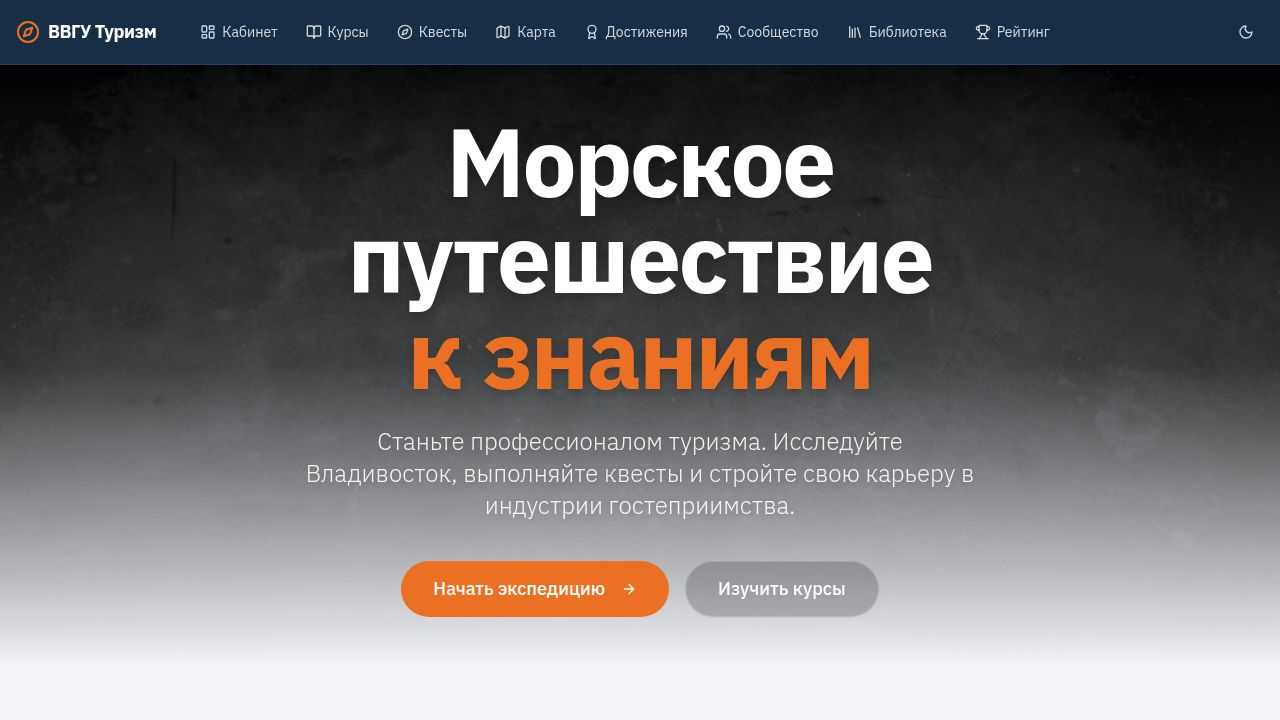
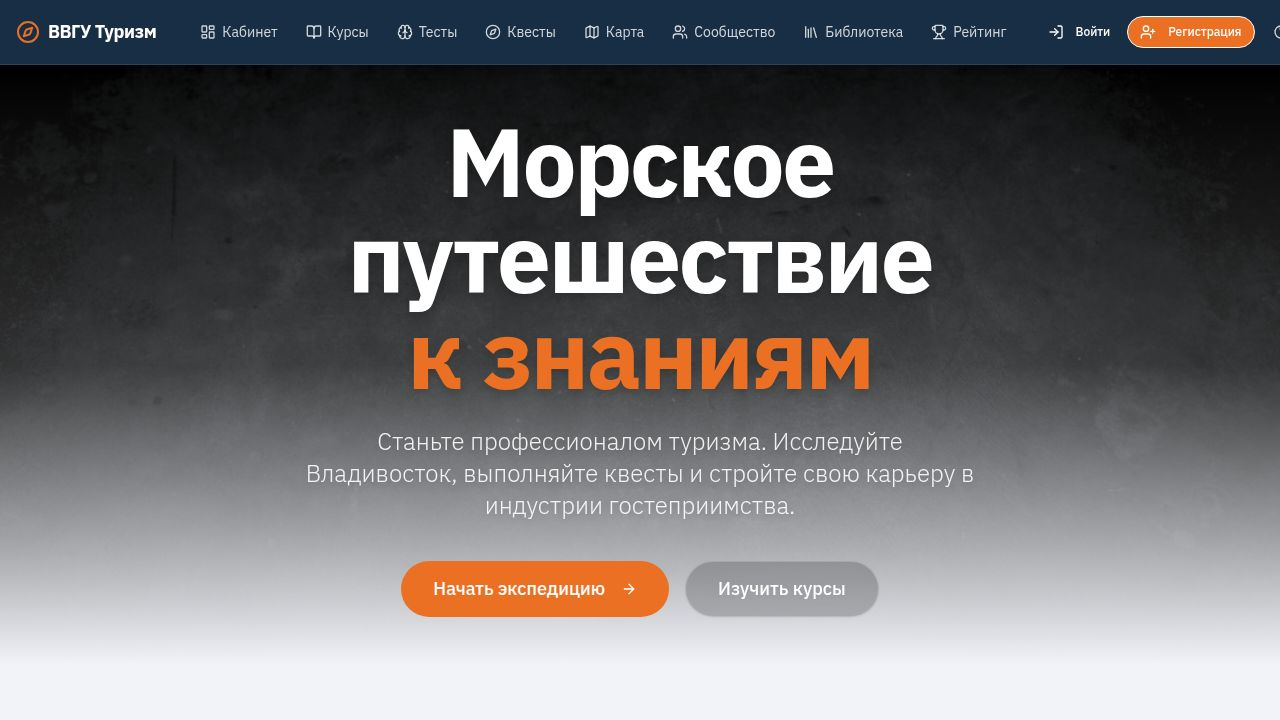
Replace the map display with Yandex Maps
Replaces Leaflet/OpenStreetMap map implementation with react-yandex-maps, updating dependencies and the map component.

Replit-Commit-Author: Agent
Replit-Commit-Session-Id: bf9de314-b4f1-423e-8395-659c928064bc
Replit-Commit-Checkpoint-Type: full_checkpoint
Replit-Commit-Event-Id: 562a5d11-4e51-4168-a24f-b38a06f3957c
Replit-Commit-Screenshot-Url: https://storage.googleapis.com/screenshot-production-us-central1/4a6a26e7-646c-42e4-b8a2-411837369c9c/bf9de314-b4f1-423e-8395-659c928064bc/kVmmSqq
Replit-Helium-Checkpoint-Created: true

Changed region(s): [[0.3125, 0.0, 1.0, 0.0917]]

diff --git a/artifacts/vvsu-tourism/src/pages/map-page.tsx b/artifacts/vvsu-tourism/src/pages/map-page.tsx
@@ -1,8 +1,6 @@
 import { useState, useMemo } from "react";
 import { motion } from "framer-motion";
-import { MapContainer, TileLayer, Marker, Popup, Polyline, useMap } from "react-leaflet";
-import L from "leaflet";
-import "leaflet/dist/leaflet.css";
+import { YMaps, Map, Placemark, Polyline } from "react-yandex-maps";
 import { useListMapPoints, useListMapRoutes } from "@workspace/api-client-react";
 import { Card } from "@/components/ui/card";
 import { Badge } from "@/components/ui/badge";
@@ -18,7 +16,6 @@ const categoryConfig: Record<string, { color: string; label: string; icon: React
   restaurant: { color: "#e11d48", label: "Ресторан", icon: <Utensils className="h-4 w-4" /> },
 };
 
-// Accurate geo-coordinates for Vladivostok landmarks
 const pointCoordinates: Record<string, [number, number]> = {
   "Золотой мост": [43.1126, 131.8869],
   "Морской вокзал": [43.1112, 131.8854],
@@ -34,45 +31,13 @@ const pointCoordinates: Record<string, [number, number]> = {
   "Русский мост": [43.0535, 131.8869],
 };
 
-function makeIcon(color: string) {
-  return L.divIcon({
-    className: "custom-marker",
-    html: `<div style="
-      width: 32px; height: 32px;
-      background: ${color};
-      border-radius: 50% 50% 50% 0;
-      transform: rotate(-45deg);
-      border: 3px solid white;
-      box-shadow: 0 4px 12px rgba(0,0,0,0.4);
-      display: flex; align-items: center; justify-content: center;
-    ">
-      <div style="
-        width: 10px; height: 10px;
-        background: white;
-        border-radius: 50%;
-        transform: rotate(45deg);
-      "></div>
-    </div>`,
-    iconSize: [32, 32],
-    iconAnchor: [16, 32],
-    popupAnchor: [0, -32],
-  });
-}
-
-function FlyToPoint({ position }: { position: [number, number] | null }) {
-  const map = useMap();
-  if (position) {
-    map.flyTo(position, 14, { duration: 1.2 });
-  }
-  return null;
-}
-
 export default function MapPage() {
   const { data: points, isLoading: pointsLoading } = useListMapPoints();
   const { data: routes, isLoading: routesLoading } = useListMapRoutes();
   const [activeTab, setActiveTab] = useState<"points" | "routes">("points");
   const [selectedId, setSelectedId] = useState<number | null>(null);
   const [activeRouteId, setActiveRouteId] = useState<number | null>(null);
+  const [mapInstance, setMapInstance] = useState<{ setCenter: (c: number[], z: number, opts?: object) => void } | null>(null);
 
   const difficultyLabel: Record<string, string> = {
     easy: "Лёгкий", medium: "Средний", hard: "Сложный",
@@ -90,9 +55,6 @@ export default function MapPage() {
     });
   }, [points]);
 
-  const selectedPoint = enrichedPoints.find(p => p.id === selectedId);
-  const flyTarget = selectedPoint?.coords ?? null;
-
   const activeRoute = routes?.find(r => r.id === activeRouteId);
   const routeCoords = useMemo<[number, number][]>(() => {
     if (!activeRoute || !points) return [];
@@ -105,6 +67,13 @@ export default function MapPage() {
       .filter((c): c is [number, number] => Array.isArray(c));
   }, [activeRoute, points, enrichedPoints]);
 
+  function handlePointClick(p: { id: number; coords: [number, number] }) {
+    setSelectedId(p.id);
+    if (mapInstance) {
+      mapInstance.setCenter(p.coords, 14, { duration: 800 });
+    }
+  }
+
   return (
     <div className="min-h-screen bg-background py-6 px-4">
       <div className="max-w-7xl mx-auto">
@@ -115,79 +84,77 @@ export default function MapPage() {
           </div>
           <h1 className="text-4xl font-bold text-foreground">Карта Владивостока</h1>
           <p className="text-muted-foreground mt-1">
-            Реальная интерактивная карта Приморского края — точки на своих местах
+            Интерактивная карта Приморского края на Яндекс.Картах
           </p>
         </motion.div>
 
         <div className="grid grid-cols-1 lg:grid-cols-3 gap-6">
-          {/* Leaflet map */}
+          {/* Yandex Map */}
           <div className="lg:col-span-2">
             <Card className="rounded-2xl border-border/60 overflow-hidden">
               <div className="relative" style={{ height: "640px" }}>
                 {pointsLoading ? (
                   <Skeleton className="absolute inset-0" />
                 ) : (
-                  <MapContainer
-                    center={[43.0815, 131.7]}
-                    zoom={10}
-                    className="w-full h-full"
-                    scrollWheelZoom
-                  >
-                    <TileLayer
-                      url="https://{s}.tile.openstreetmap.org/{z}/{x}/{y}.png"
-                      attribution='&copy; <a href="https://www.openstreetmap.org/copyright">OpenStreetMap</a>'
-                    />
-                    <FlyToPoint position={flyTarget} />
+                  <YMaps query={{ lang: "ru_RU", load: "package.full" }}>
+                    <Map
+                      state={{ center: [43.0815, 131.87], zoom: 11 }}
+                      width="100%"
+                      height="640px"
+                      instanceRef={(ref: unknown) => {
+                        if (ref) setMapInstance(ref as typeof mapInstance);
+                      }}
+                      options={{ suppressMapOpenBlock: true }}
+                    >
+                      {enrichedPoints.map(p => (
+                        <Placemark
+                          key={p.id}
+                          geometry={p.coords}
+                          properties={{
+                            balloonContentHeader: p.name,
+                            balloonContentBody: [
+                              `<div style="min-width:200px">`,
+                              `<div style="font-size:12px;color:#666;margin-bottom:6px">${p.catConfig.label}</div>`,
+                              p.description
+                                ? `<p style="font-size:12px;color:#333;margin-bottom:8px">${p.description}</p>`
+                                : "",
+                              p.legend
+                                ? `<div style="background:#fffbeb;border-left:3px solid #f59e0b;padding:8px;border-radius:4px">
+                                     <div style="font-size:11px;font-weight:600;color:#92400e;text-transform:uppercase;letter-spacing:0.05em;margin-bottom:4px">📜 Легенда</div>
+                                     <p style="font-size:11px;color:#78350f;font-style:italic;margin:0">${p.legend}</p>
+                                   </div>`
+                                : "",
+                              `</div>`,
+                            ].join(""),
+                            hintContent: p.name,
+                          }}
+                          options={{
+                            preset: "islands#blueCircleDotIcon",
+                            iconColor: p.catConfig.color,
+                            balloonPanelMaxMapArea: 0,
+                          }}
+                          onClick={() => handlePointClick(p)}
+                        />
+                      ))}
 
-                    {enrichedPoints.map(p => (
-                      <Marker
-                        key={p.id}
-                        position={p.coords}
-                        icon={makeIcon(p.catConfig.color)}
-                        eventHandlers={{
-                          click: () => setSelectedId(p.id),
-                        }}
-                      >
-                        <Popup>
-                          <div className="min-w-[220px]">
-                            <div className="flex items-center gap-2 mb-1.5">
-                              <span
-                                className="inline-flex items-center justify-center w-7 h-7 rounded-full text-white"
-                                style={{ background: p.catConfig.color }}
-                              >
-                                {p.catConfig.icon}
-                              </span>
-                              <strong className="text-sm">{p.name}</strong>
-                            </div>
-                            <div className="text-xs text-gray-500 mb-1">{p.catConfig.label}</div>
-                            {p.description && (
-                              <p className="text-xs text-gray-700 mb-2 leading-snug">{p.description}</p>
-                            )}
-                            {p.legend && (
-                              <div className="mt-2 p-2 bg-amber-50 border-l-2 border-amber-400 rounded">
-                                <div className="flex items-center gap-1 text-amber-800 text-[11px] font-semibold uppercase tracking-wide mb-1">
-                                  <Scroll className="h-3 w-3" /> Легенда
-                                </div>
-                                <p className="text-xs text-amber-900 italic leading-snug">{p.legend}</p>
-                              </div>
-                            )}
-                          </div>
-                        </Popup>
-                      </Marker>
-                    ))}
-
-                    {routeCoords.length > 1 && (
-                      <Polyline
-                        positions={routeCoords}
-                        pathOptions={{ color: "#EB7124", weight: 5, opacity: 0.85, dashArray: "8 8" }}
-                      />
-                    )}
-                  </MapContainer>
+                      {routeCoords.length > 1 && (
+                        <Polyline
+                          geometry={routeCoords}
+                          options={{
+                            strokeColor: "#EB7124",
+                            strokeWidth: 5,
+                            strokeOpacity: 0.85,
+                            strokeStyle: "dash",
+                          }}
+                        />
+                      )}
+                    </Map>
+                  </YMaps>
                 )}
               </div>
             </Card>
             <p className="text-xs text-muted-foreground mt-2 px-1">
-              Карта © OpenStreetMap. Используйте колесо мыши для масштабирования, перетаскивание для перемещения.
+              © Яндекс.Карты. Используйте колесо мыши для масштабирования, перетаскивание для перемещения.
             </p>
           </div>
 
@@ -224,7 +191,7 @@ export default function MapPage() {
                         className={`rounded-xl border-border/60 cursor-pointer transition-all hover-elevate ${
                           selectedId === p.id ? "ring-2 ring-accent" : ""
                         }`}
-                        onClick={() => setSelectedId(p.id)}
+                        onClick={() => handlePointClick(p)}
                       >
                         <div className="p-3 flex items-center gap-3">
                           <span
@@ -273,6 +240,39 @@ export default function MapPage() {
                       </Card>
                     ))}
               </div>
+            )}
+
+            {/* Legend */}
+            {activeTab === "points" && (
+              <Card className="rounded-xl border-border/60 p-3">
+                <div className="text-xs font-semibold text-muted-foreground uppercase tracking-wide mb-2">
+                  Легенда
+                </div>
+                <div className="space-y-1.5">
+                  {Object.entries(categoryConfig).map(([key, cfg]) => (
+                    <div key={key} className="flex items-center gap-2">
+                      <span
+                        className="inline-flex items-center justify-center w-6 h-6 rounded-full text-white shrink-0"
+                        style={{ background: cfg.color }}
+                      >
+                        <span className="scale-75">{cfg.icon}</span>
+                      </span>
+                      <span className="text-xs text-muted-foreground">{cfg.label}</span>
+                    </div>
+                  ))}
+                </div>
+              </Card>
+            )}
+
+            {activeTab === "routes" && activeRoute && (
+              <Card className="rounded-xl border-border/60 p-3 bg-accent/5">
+                <div className="flex items-center gap-1.5 mb-1">
+                  <Scroll className="h-3.5 w-3.5 text-accent" />
+                  <span className="text-xs font-semibold text-accent">Активный маршрут</span>
+                </div>
+                <div className="text-sm font-semibold mb-1">{activeRoute.name}</div>
+                <div className="text-xs text-muted-foreground">{routeCoords.length} точек на карте</div>
+              </Card>
             )}
           </div>
         </div>